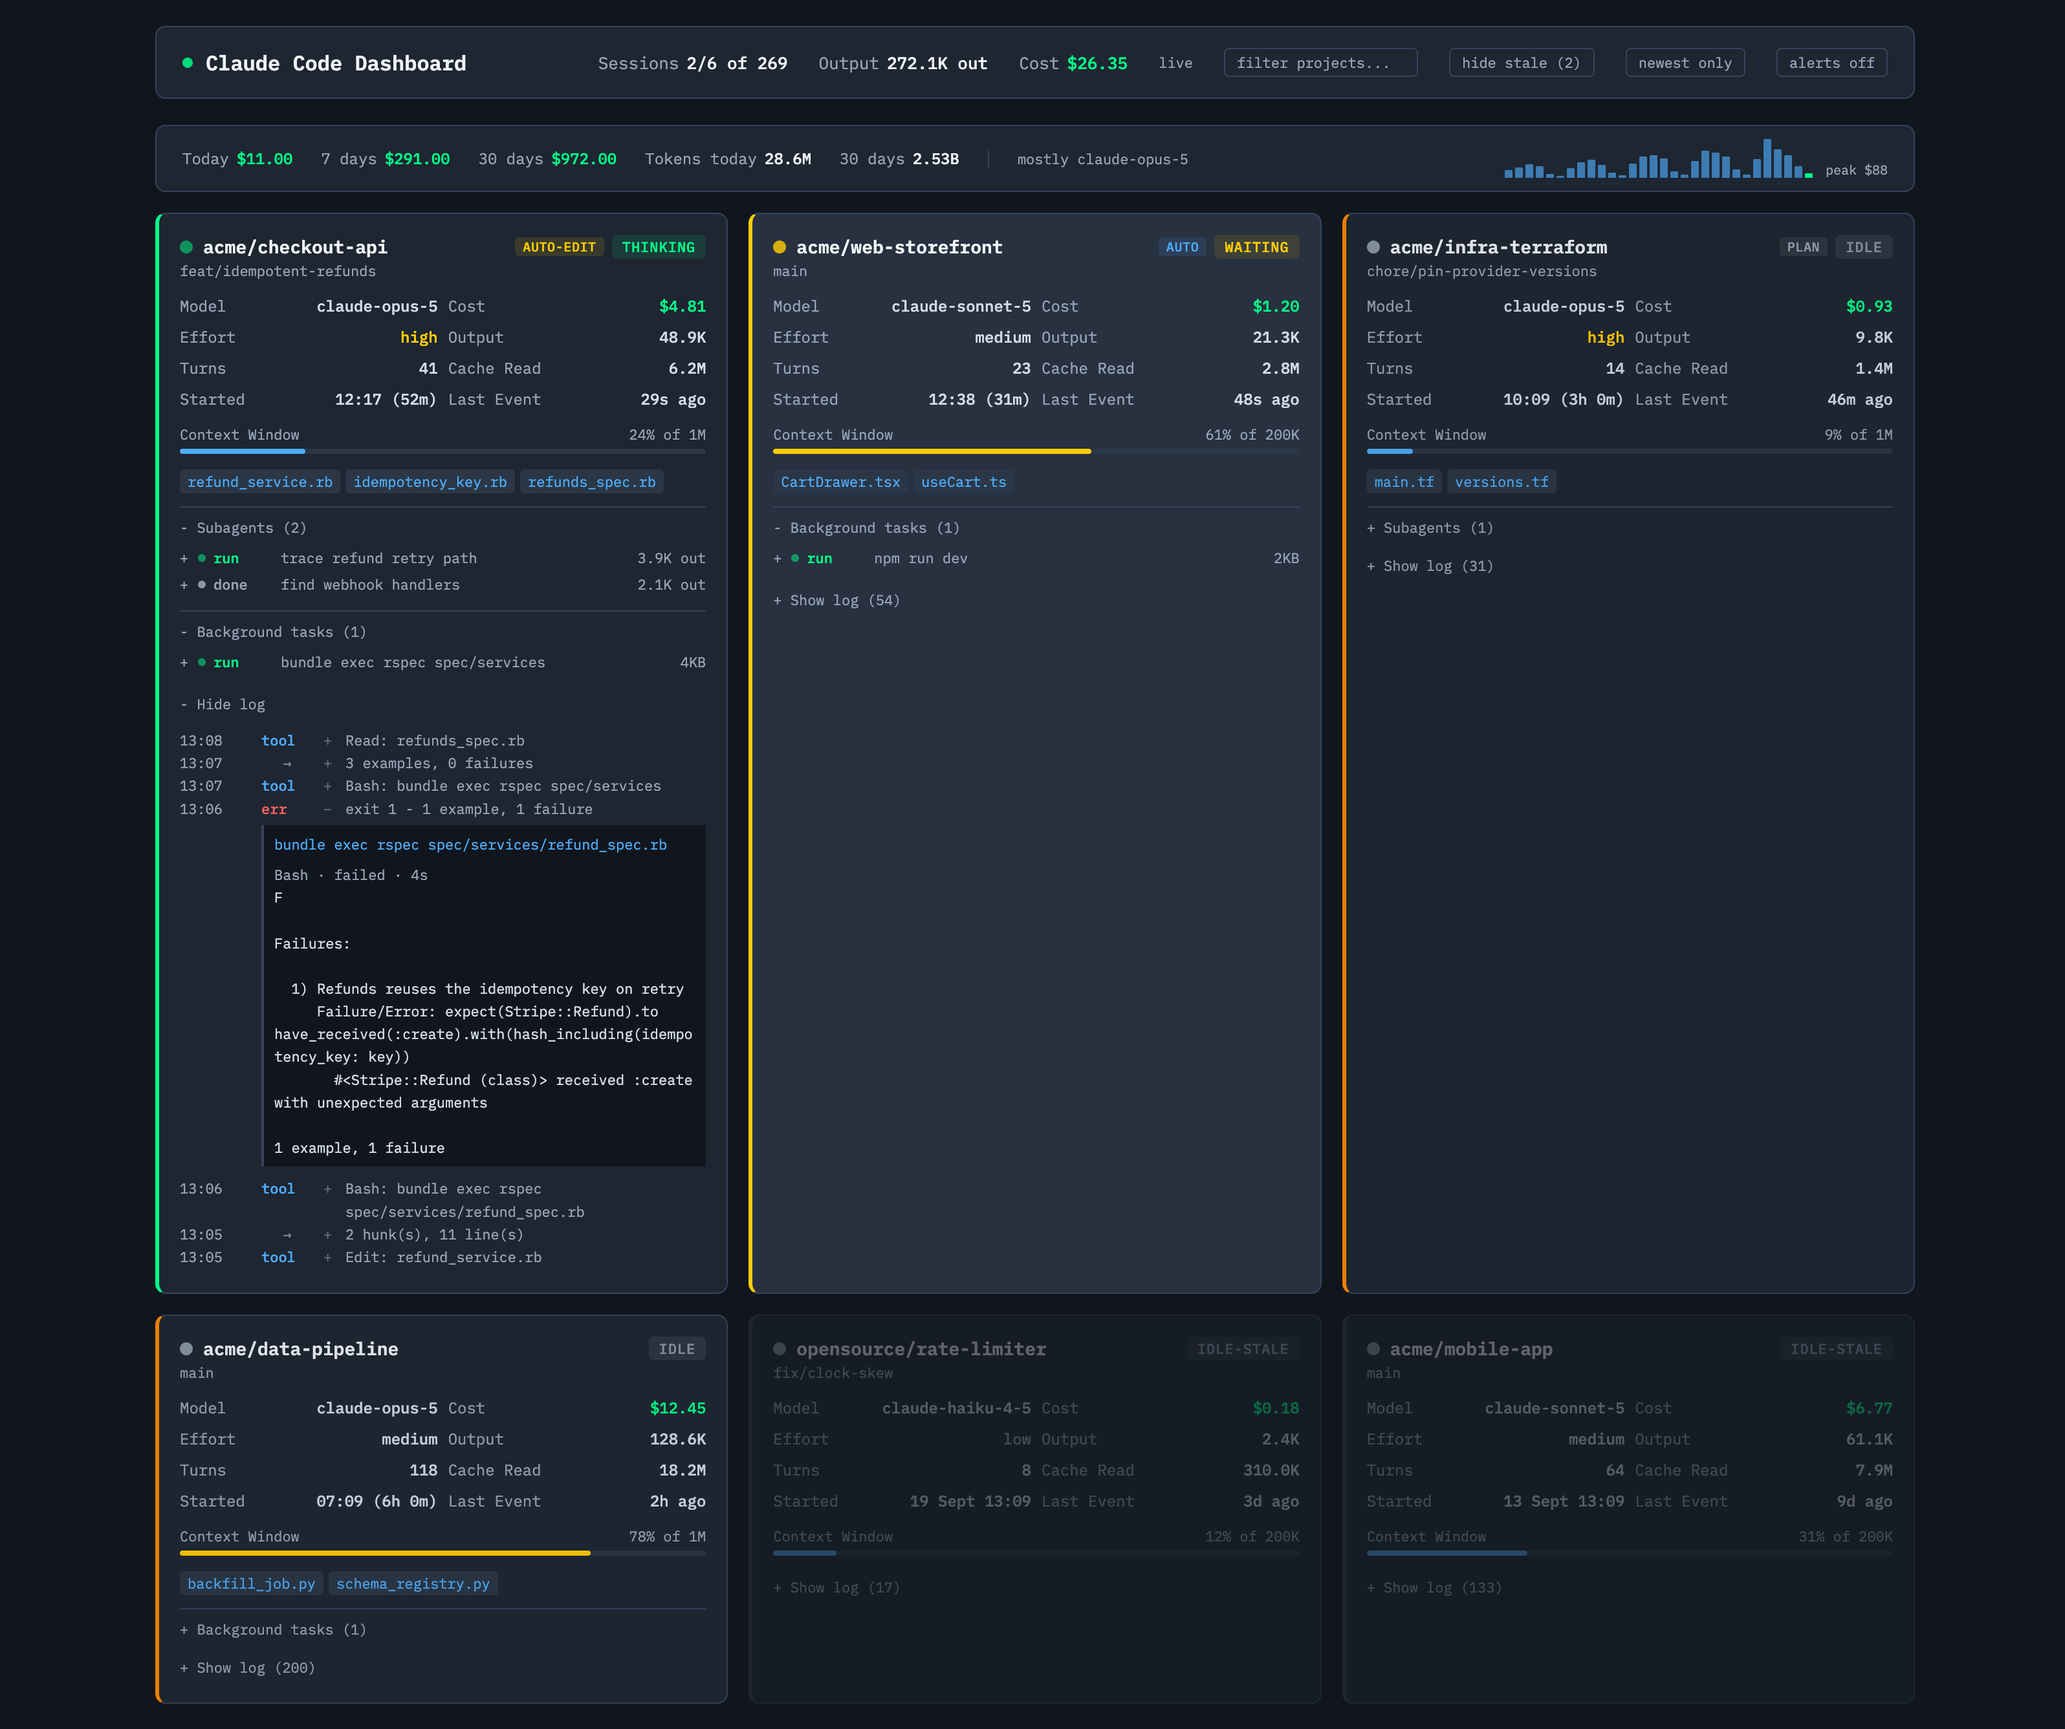
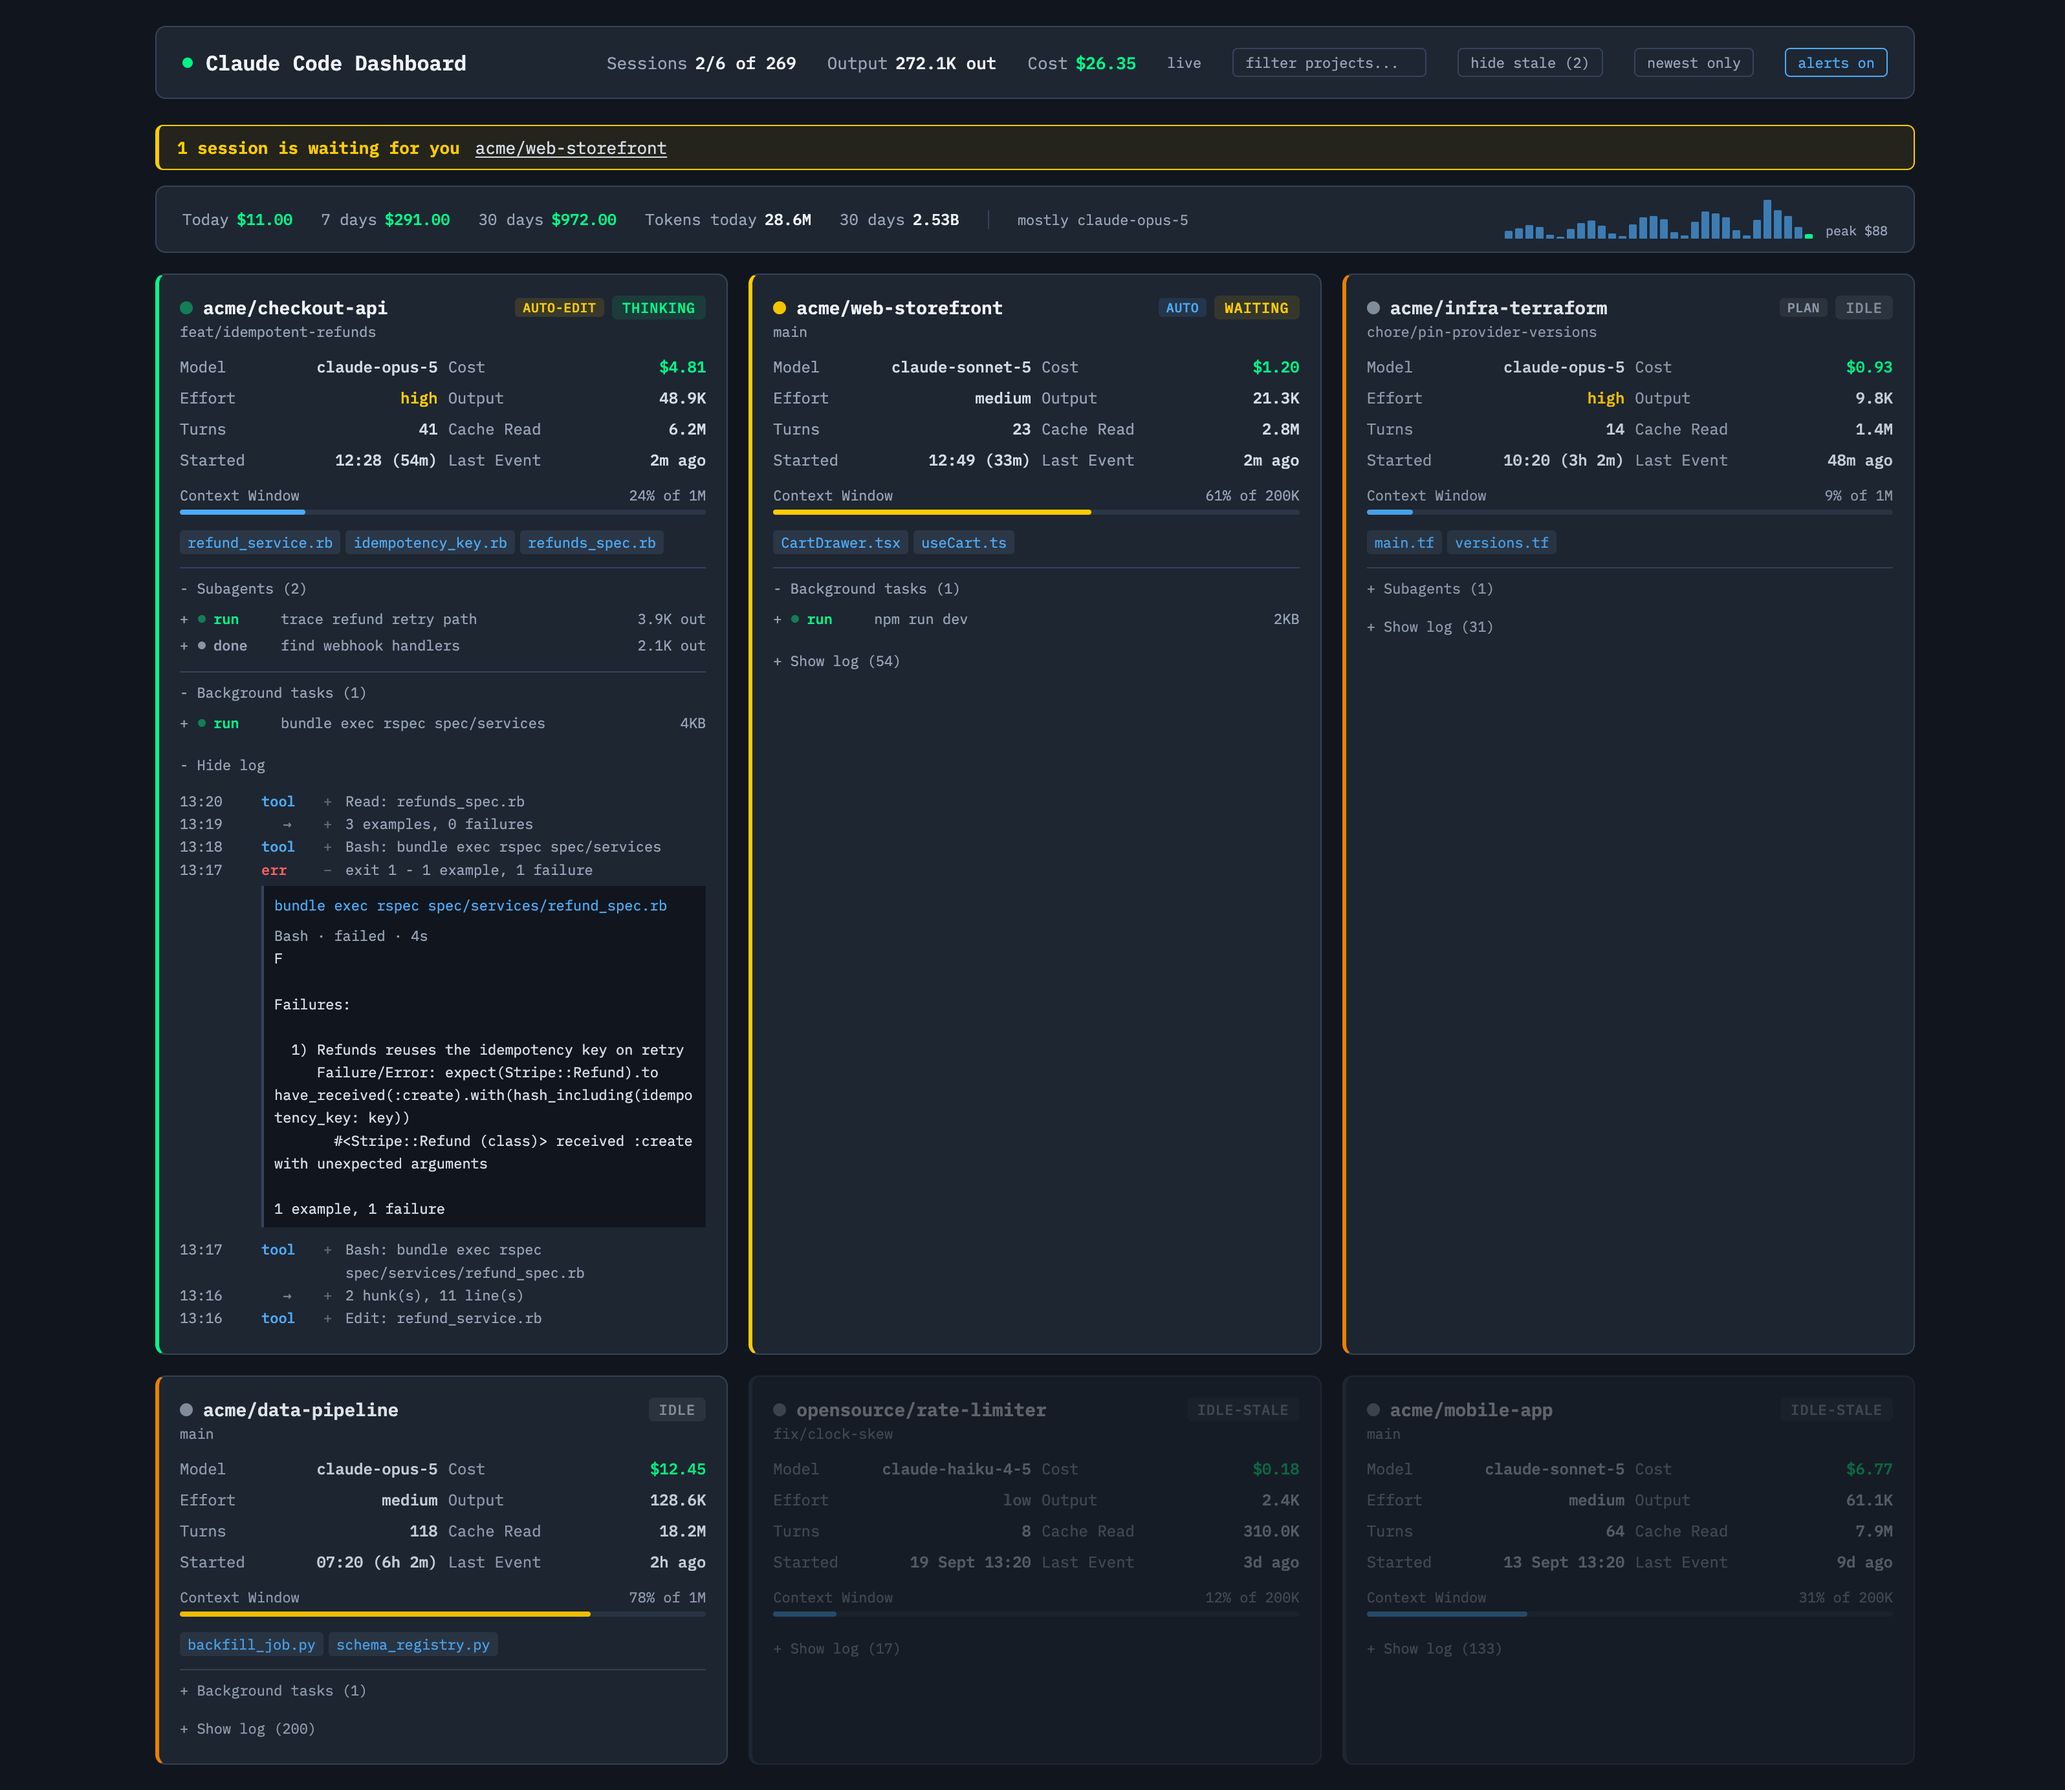
Alert in the page, not only through the browser
Both existing alerts need something outside the page. The notification
needs permission the browser can refuse, and the tab-title count needs a
tab bar. In a chromeless window - which is where this dashboard tends to
live - neither exists, so a session could sit waiting with nothing on
screen saying so.

A yellow bar now appears under the header while anything is waiting,
naming each session; clicking a name scrolls to its card. It needs no
permission, no tab bar and no notification API, so it works everywhere
the page does. It is absent entirely when nothing is waiting.

The count is spelled out rather than left to the colour, and the bar
wraps rather than overflowing at phone width.

Claude-Session: https://claude.ai/code/session_01EvQQCyByDtyWJFQ2WQu6jQ

diff --git a/public/index.html b/public/index.html
@@ -374,6 +374,36 @@
     }
     .stale-toggle:hover { color: var(--text); border-color: var(--text-dim); }
     .stale-toggle.on { color: var(--blue); border-color: var(--blue); }
+    /* In-page alert bar. Yellow matches the waiting status colour, and the
+       count is spelled out so colour is not carrying the message alone. */
+    .waiting-bar {
+      display: flex;
+      flex-wrap: wrap;
+      align-items: baseline;
+      gap: 4px 12px;
+      margin-bottom: 12px;
+      padding: 8px 14px;
+      border: 1px solid var(--yellow);
+      border-left-width: 3px;
+      border-radius: 6px;
+      background: rgba(255, 204, 0, 0.08);
+      font-size: 13px;
+    }
+    .waiting-count { color: var(--yellow); font-weight: 600; }
+    .waiting-names { color: var(--text-dim); }
+    .waiting-sep { color: var(--text-dim); }
+    .waiting-jump {
+      background: none;
+      border: none;
+      padding: 0;
+      font: inherit;
+      color: var(--text);
+      cursor: pointer;
+      text-decoration: underline;
+      text-underline-offset: 2px;
+    }
+    .waiting-jump:hover { color: var(--yellow); }
+
     /* On, but something outside the page is stopping it working. The word says
        so too; the colour is not carrying the meaning on its own. */
     .stale-toggle.warn { color: var(--red); border-color: var(--red); }
@@ -854,7 +884,7 @@
       const st = session.status;
       const pct = contextPercent(session.lastTurnInputTotal || session.tokensIn, session.contextLimit);
 
-      return e('div', { className: 'card status-' + st },
+      return e('div', { className: 'card status-' + st, id: 'card-' + session.sessionId },
         // Header
         e('div', { className: 'card-header' },
           e('div', null,
@@ -1274,6 +1304,27 @@
             })()
           )
         ),
+
+        // In-page alert. The desktop notification needs permission and the
+        // tab-title count needs a tab bar; neither survives a window with no
+        // browser chrome, which is where this dashboard tends to live.
+        waiting.length > 0 ? e('div', { className: 'waiting-bar' },
+          e('span', { className: 'waiting-count' },
+            waiting.length + (waiting.length === 1 ? ' session is' : ' sessions are') + ' waiting for you'),
+          e('span', { className: 'waiting-names' },
+            waiting.map((s, i) => e(React.Fragment, { key: s.sessionId },
+              i > 0 ? e('span', { className: 'waiting-sep' }, ' · ') : null,
+              e('button', {
+                className: 'waiting-jump',
+                onClick: () => {
+                  const el = document.getElementById('card-' + s.sessionId);
+                  if (el) el.scrollIntoView({ behavior: 'smooth', block: 'center' });
+                },
+                title: 'Scroll to this session',
+              }, s.label || s.sessionId.substring(0, 8))
+            ))
+          )
+        ) : null,
 
         e(UsageBar, { usage }),
 

diff --git a/README.md b/README.md
@@ -31,10 +31,12 @@ see which session is active.
 - **Reasoning effort** — `low` / `medium` / `high`, beside the model
 - **Permission mode badge** — `AUTO`, `AUTO-EDIT`, `PLAN`, `YOLO` — and the output mode
   when it is not `normal`
-- **Desktop alerts** — notification and tab-title count when a session waits for you.
-  Fires once per session, re-arming when that session goes busy again. The tab-title
-  count works regardless; the button reads `alerts blocked` if the browser is refusing
-  notifications, rather than claiming to be on
+- **Alerts when a session waits for you**, three ways, so at least one always lands:
+  a yellow in-page banner naming each waiting session (click a name to jump to its
+  card), the tab-title count, and a desktop notification. The banner needs no
+  permission and no browser chrome, which is what a kiosk or chromeless window has.
+  Notifications fire once per session and re-arm when it goes busy again; the button
+  reads `alerts blocked` if the browser is refusing them, rather than claiming to be on
 - **Project filter, hide-stale and show-all-sessions toggles** — all persist across reloads
 - **Connection health** — red dot and last-update age if the watcher stops responding
 - **Subagents** — every one the session spawned, running or finished, each row labelled
